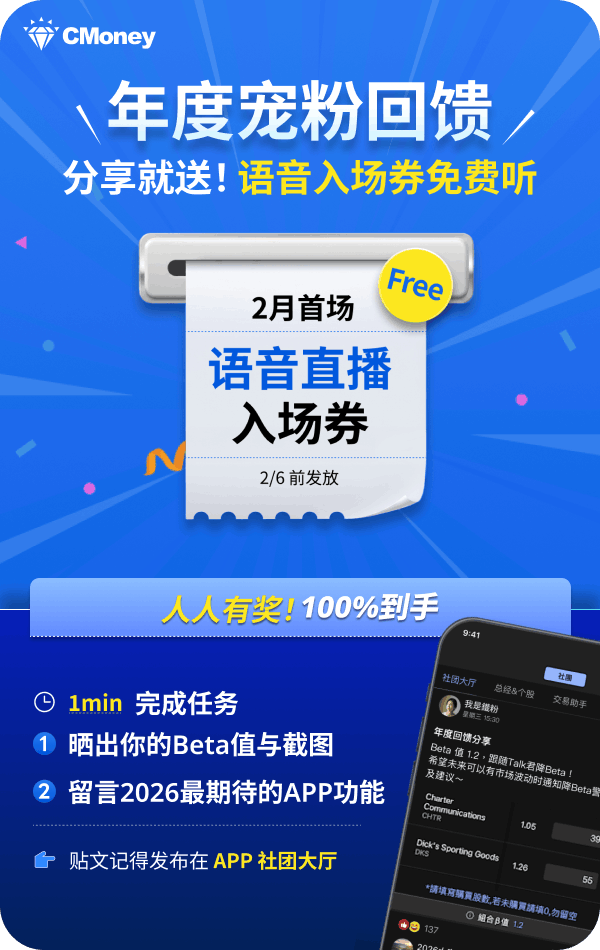
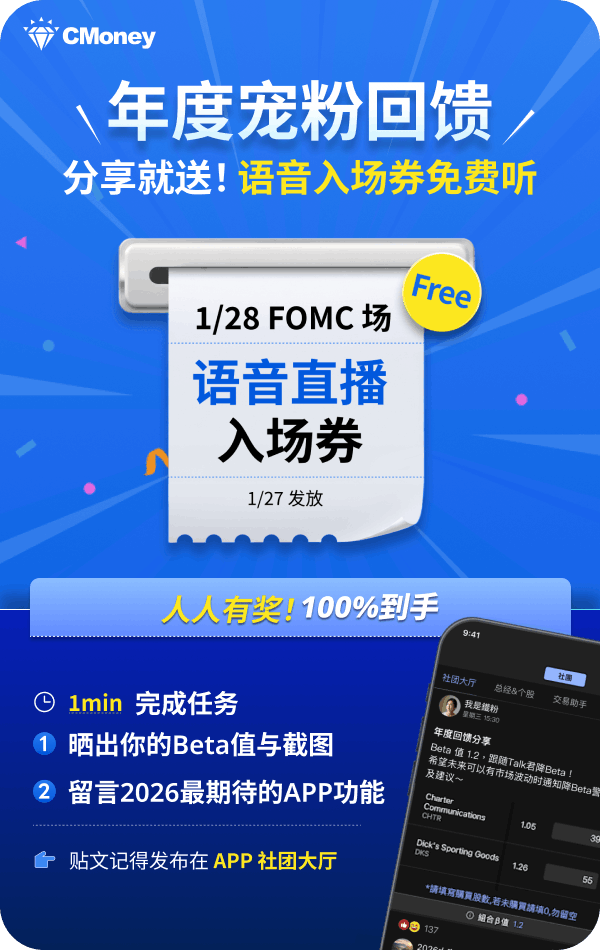
fix pro link SC, animation, skip options

Changed region(s): [[0.18, 0.2442, 0.81, 0.6105], [0.66, 0.9768, 0.69, 1.0]]

diff --git a/src/App.jsx b/src/App.jsx
@@ -125,6 +125,8 @@ const App = () => {
 
   const [selectedImage, setSelectedImage] = useState(null);
   const [language, setLanguage] = useState('TC');
+  const [introAnimFinished, setIntroAnimFinished] = useState(false);
+  const [toastMessage, setToastMessage] = useState(null); // New State
   const scrollRef = useRef(null);
 
   useEffect(() => {
@@ -175,7 +177,7 @@ const App = () => {
       // Reset scroll to top first
       scrollRef.current.scrollTop = 0;
 
-      const duration = 8000; // 8 seconds sync with animation
+      const duration = 4000; // 4 seconds (Faster)
       const start = performance.now();
       const startScroll = 0;
       const endScroll = scrollRef.current.scrollHeight - scrollRef.current.clientHeight;
@@ -215,7 +217,7 @@ const App = () => {
     if (activeScreen === 1) {
       const timer = setTimeout(() => {
         nextScreen();
-      }, 10000);
+      }, 5000); // 4s animation + 1s buffer
       return () => clearTimeout(timer);
     }
   }, [activeScreen]);
@@ -254,19 +256,30 @@ const App = () => {
 
   const handleShare = async () => {
     trackEvent('click_share');
+    const shareData = {
+      title: campaignContent.shareTextTitle,
+      text: campaignContent.shareTextBody,
+      url: window.location.href,
+    };
+
     if (navigator.share) {
       try {
-        await navigator.share({
-          title: campaignContent.shareTextTitle,
-          text: campaignContent.shareTextBody,
-          url: window.location.href,
-        });
+        await navigator.share(shareData);
       } catch (error) {
         console.log('Error sharing', error);
       }
     } else {
-      // Fallback
-      alert('您的瀏覽器不支援原生分享，請截圖分享！');
+      // Fallback: Copy to Clipboard
+      try {
+        const textToCopy = `${shareData.title}\n${shareData.text}\n${shareData.url}`;
+        await navigator.clipboard.writeText(textToCopy);
+        setToastMessage(language === 'TC' ? '連結已複製！' : '链接已复制！');
+        setTimeout(() => setToastMessage(null), 3000);
+      } catch (err) {
+        console.error('Failed to copy: ', err);
+        setToastMessage('Copy failed');
+        setTimeout(() => setToastMessage(null), 3000);
+      }
     }
   };
 
@@ -278,12 +291,15 @@ const App = () => {
         <div className="flex flex-col min-h-[100dvh] justify-center items-center px-6 pb-20 fade-in text-center relative overflow-hidden bg-gradient-to-br from-[#0a0a0a] via-[#111827] to-[#000000]">
           {/* Ambient Light Orbs - Subtler & Cleaner */}
           <div className="absolute top-0 left-0 w-full h-full overflow-hidden pointer-events-none" >
-            <div className="absolute top-[-10%] left-[-10%] w-[50%] h-[50%] bg-blue-900/20 rounded-full blur-[120px] animate-pulse"></div>
-            <div className="absolute bottom-[-10%] right-[-10%] w-[50%] h-[50%] bg-indigo-900/20 rounded-full blur-[120px] animate-pulse" style={{ animationDelay: '2s' }}></div>
+            <div className={`absolute top-[-10%] left-[-10%] w-[50%] h-[50%] bg-blue-900/20 rounded-full blur-[120px] animate-pulse ${introAnimFinished ? 'hidden' : ''}`}></div>
+            <div className={`absolute bottom-[-10%] right-[-10%] w-[50%] h-[50%] bg-indigo-900/20 rounded-full blur-[120px] animate-pulse ${introAnimFinished ? 'hidden' : ''}`} style={{ animationDelay: '2s' }}></div>
           </div >
 
-          {/* Language Selection Buttons - Appear after animation */}
-          < div className="absolute bottom-100 flex flex-col gap-8 z-50 fade-in opacity-0 items-center" style={{ animationDelay: '6.5s', animationFillMode: 'forwards' }}>
+          {/* Language Selection Buttons */}
+          < div
+            className={`absolute bottom-100 flex flex-col gap-8 z-50 items-center transition-opacity duration-1000 ${introAnimFinished ? 'opacity-100' : 'fade-in opacity-0'}`}
+            style={{ animationDelay: introAnimFinished ? '0.5s' : '6.5s', animationFillMode: 'forwards' }}
+          >
             <p className="text-white/80 text-lg font-bold tracking-widest mb-3">請選擇您的語言</p>
             <button
               onClick={() => { setLanguage('TC'); trackEvent('change_language', { lang: 'TC' }); nextScreen(); }}
@@ -301,9 +317,20 @@ const App = () => {
               <span className="relative text-[#ff95b1] font-black text-lg tracking-widest">简体中文</span>
             </button>
 
+            <button
+              onClick={(e) => {
+                e.stopPropagation();
+                setActiveScreen(screens.length - 1);
+                trackEvent('skip_to_campaign');
+              }}
+              className="mt-4 text-white/30 hover:text-white/90 text-[10px] font-bold tracking-[0.2em] uppercase transition-colors border-b border-transparent hover:border-white/50 pb-1"
+            >
+              直接跳到活動頁
+            </button>
+
           </div >
 
-          <div className="relative w-full max-w-lg h-60 flex items-center justify-center mt-20 z-10">
+          <div className={`relative w-full max-w-lg h-60 flex items-center justify-center mt-20 z-10 transition-opacity duration-500 ${introAnimFinished ? 'opacity-0' : 'opacity-100'}`}>
             {/* Group 1: 投資TALK君 / 2025 / 年度復盤 */}
             <div className="absolute inset-0 flex flex-col items-center justify-center pointer-events-none">
               <span className="text-white text-4xl md:text-5xl font-black uppercase tracking-widest clip-text drop-shadow-lg" style={{ animationDelay: '0.7s' }}>
@@ -332,16 +359,19 @@ const App = () => {
           </div>
 
           {/* Immediate Skip Button (Bottom) */}
-          <button
-            onClick={(e) => {
-              e.stopPropagation();
-              setActiveScreen(screens.length - 1);
-              trackEvent('skip_to_campaign');
-            }}
-            className="absolute bottom-6 left-1/2 -translate-x-1/2 z-[60] text-white/30 hover:text-white/90 text-[10px] font-bold tracking-[0.2em] uppercase transition-colors border-b border-transparent hover:border-white/50 pb-1"
-          >
-            SKIP INTRO
-          </button>
+          {/* Immediate Skip Button (Bottom) - Only show if animation not finished */}
+          {!introAnimFinished && (
+            <button
+              onClick={(e) => {
+                e.stopPropagation();
+                setIntroAnimFinished(true);
+                trackEvent('skip_intro_animation');
+              }}
+              className="absolute bottom-6 left-1/2 -translate-x-1/2 z-[60] text-white/30 hover:text-white/90 text-[10px] font-bold tracking-[0.2em] uppercase transition-colors border-b border-transparent hover:border-white/50 pb-1"
+            >
+              略過動畫
+            </button>
+          )}
         </div >
       )
     },
@@ -367,7 +397,7 @@ const App = () => {
                 className="absolute top-0 left-0 w-full bg-gradient-to-b from-[#95B1FF] to-[#95B1FF]"
                 style={{
                   height: '100%',
-                  animation: 'growHeight 8s linear forwards',
+                  animation: 'growHeight 4s linear forwards',
                   transformOrigin: 'top'
                 }}
               ></div>
@@ -378,9 +408,9 @@ const App = () => {
               const itemColors = ['#FF8A8A', colors.primary, '#ADC4FF', colors.primary];
               const color = itemColors[idx] || colors.primary;
 
-              // Calculate delay based on 8s total duration
-              // Distribute items across the timeframe (e.g., 0.5s, 2.5s, 4.5s, 6.5s)
-              const delay = 0.5 + (idx * 2.0);
+              // Calculate delay based on 4s total duration
+              // Distribute items faster (0.2s, 1.2s, 2.2s, 3.2s)
+              const delay = 0.2 + (idx * 1.0);
 
               return (
                 <div key={idx} className="relative pl-24 opacity-0" style={{ animation: `zoomOutFadeIn 0.8s ease-out forwards ${delay}s` }}>
@@ -823,7 +853,17 @@ const App = () => {
             </div>
           )}
 
-          <p className="text-[#666] text-[10px] text-center mt-3">{campaignContent.copyright}</p>
+          <p className="text-[#666] text-[10px] text-center mt-3 text-white/30">{campaignContent.copyright}</p>
+
+          <div className="flex justify-center mt-6 mb-2">
+            <button
+              onClick={() => { setActiveScreen(0); setIntroAnimFinished(false); }}
+              className="px-4 py-2 rounded-full border border-white/10 text-[#666] text-[10px] hover:text-white hover:border-white/30 transition-colors flex items-center gap-2"
+            >
+              <ArrowLeft size={12} />
+              Replay 2025 Wrapped
+            </button>
+          </div>
         </div>
 
       )
@@ -859,6 +899,8 @@ const App = () => {
         </div>
 
         {selectedImage && <ImageViewer src={selectedImage} onClose={() => setSelectedImage(null)} />}
+
+        {toastMessage && <Toast message={toastMessage} />}
 
         {activeScreen !== 0 && (
           <div className="absolute bottom-6 left-0 right-0 z-50 flex justify-center pointer-events-none">

diff --git a/src/translations.js b/src/translations.js
@@ -125,9 +125,9 @@ export const translations = {
             ticketSession: "2026/2月指定場次",
             cta: "立即計算 Beta 領券",
             shareBtn: "分享給親朋好友一起領",
-            ends: "ENDS 2026/01/31",
+            ends: "ENDS 2026/01/27",
             copyright: "主辦單位保有最終詮釋權",
-            shareTextTitle: "Talk君 2025 Wrapped",
+            shareTextTitle: "投資Talk君 2025 年度復盤",
             shareTextBody: "分享給你一個免費體驗算 Beta 風險值，現在還有送語音入場券活動"
         },
         campaign_paid: {
@@ -146,9 +146,9 @@ export const translations = {
             ],
             cta: "1分鐘分享領好禮",
             shareBtn: "分享給親朋好友一起領",
-            ends: "截止日： 1/31 23:59（美東）止",
+            ends: "截止日： 1/27 23:59（美東）止",
             copyright: "主辦單位保有最終的活動詮釋權",
-            shareTextTitle: "Talk君 2025 Wrapped",
+            shareTextTitle: "投資Talk君 2025 年度復盤",
             shareTextBody: "分享給你一個免費體驗算 Beta 風險值，現在還有送語音入場券活動"
         }
     },
@@ -278,28 +278,30 @@ export const translations = {
             ticketSession: "2026/2月指定场次",
             cta: "立即计算 Beta 领券",
             shareBtn: "分享给亲朋好友一起领",
-            ends: "ENDS 2026/01/31",
+            ends: "ENDS 2026/01/27",
             copyright: "主办单位保有最终诠释权",
-            shareTextTitle: "Talk君 2025 Wrapped",
+            shareTextTitle: "投资Talk君 2025 年度回顾",
             shareTextBody: "分享给你一个免费体验算 Beta 风险值，现在还有送语音入场券活动"
         },
         campaign_paid: {
             title: "2026，持续为你打造更好的工具",
-            subtitle: "跟我们分享您的想法，完成任务领 2 月语音直播券",
-            desc: "1月31前，分享以下内容至社团大厅，即刻开通许可权",
-            task1: "1. 你的 Beta 值与截图",
-            task2: "2. 2026 最期待的功能 😍",
+            subtitle: "分享就送Talk君问答 + 加码抽权限",
+            desc: "你不只是用户，更是决策者。分享回馈至社团大厅，除了专属报告再抽 1 个月免费权限：",
+            task1: "1. 分享 2025 年最深刻的操作或是最爱的APP功能",
+            task2: "2. 留言：2026 你最期待的 APP 功能是什么？",
             hint: "💡 许愿小灵感：目标 Beta 区间自动提醒、持仓风险体检、AI个股分析...任君许愿!",
             preview: "点击预览范例",
-            shareTag: "分享即领",
-            ticketTitle: "语音直播",
-            ticketSubtitle: "2月入场券",
-            ticketSession: "2026/2月指定场次",
-            cta: "立即计算 Beta 领券",
+            shareTag: "分享礼",
+            // Multiple rewards support
+            rewards: [
+                { tag: "分享礼", title: "Talk君语音问答重点整理", subtitle: "Email 寄送", icon: "Mic" },
+                { tag: "加码抽", title: "1 个月 APP 权限 (价值 US$99)", subtitle: "每 10 人就抽出 1 名", icon: "Crown" }
+            ],
+            cta: "1分钟分享领好礼",
             shareBtn: "分享给亲朋好友一起领",
-            ends: "ENDS 2026/01/31",
-            copyright: "主办单位保有最终诠释权",
-            shareTextTitle: "Talk君 2025 Wrapped",
+            ends: "截止日： 1/27 23:59（美东）止",
+            copyright: "主办单位保有最终的活动诠释权",
+            shareTextTitle: "投资Talk君 2025 年度回顾",
             shareTextBody: "分享给你一个免费体验算 Beta 风险值，现在还有送语音入场券活动"
         }
     }
